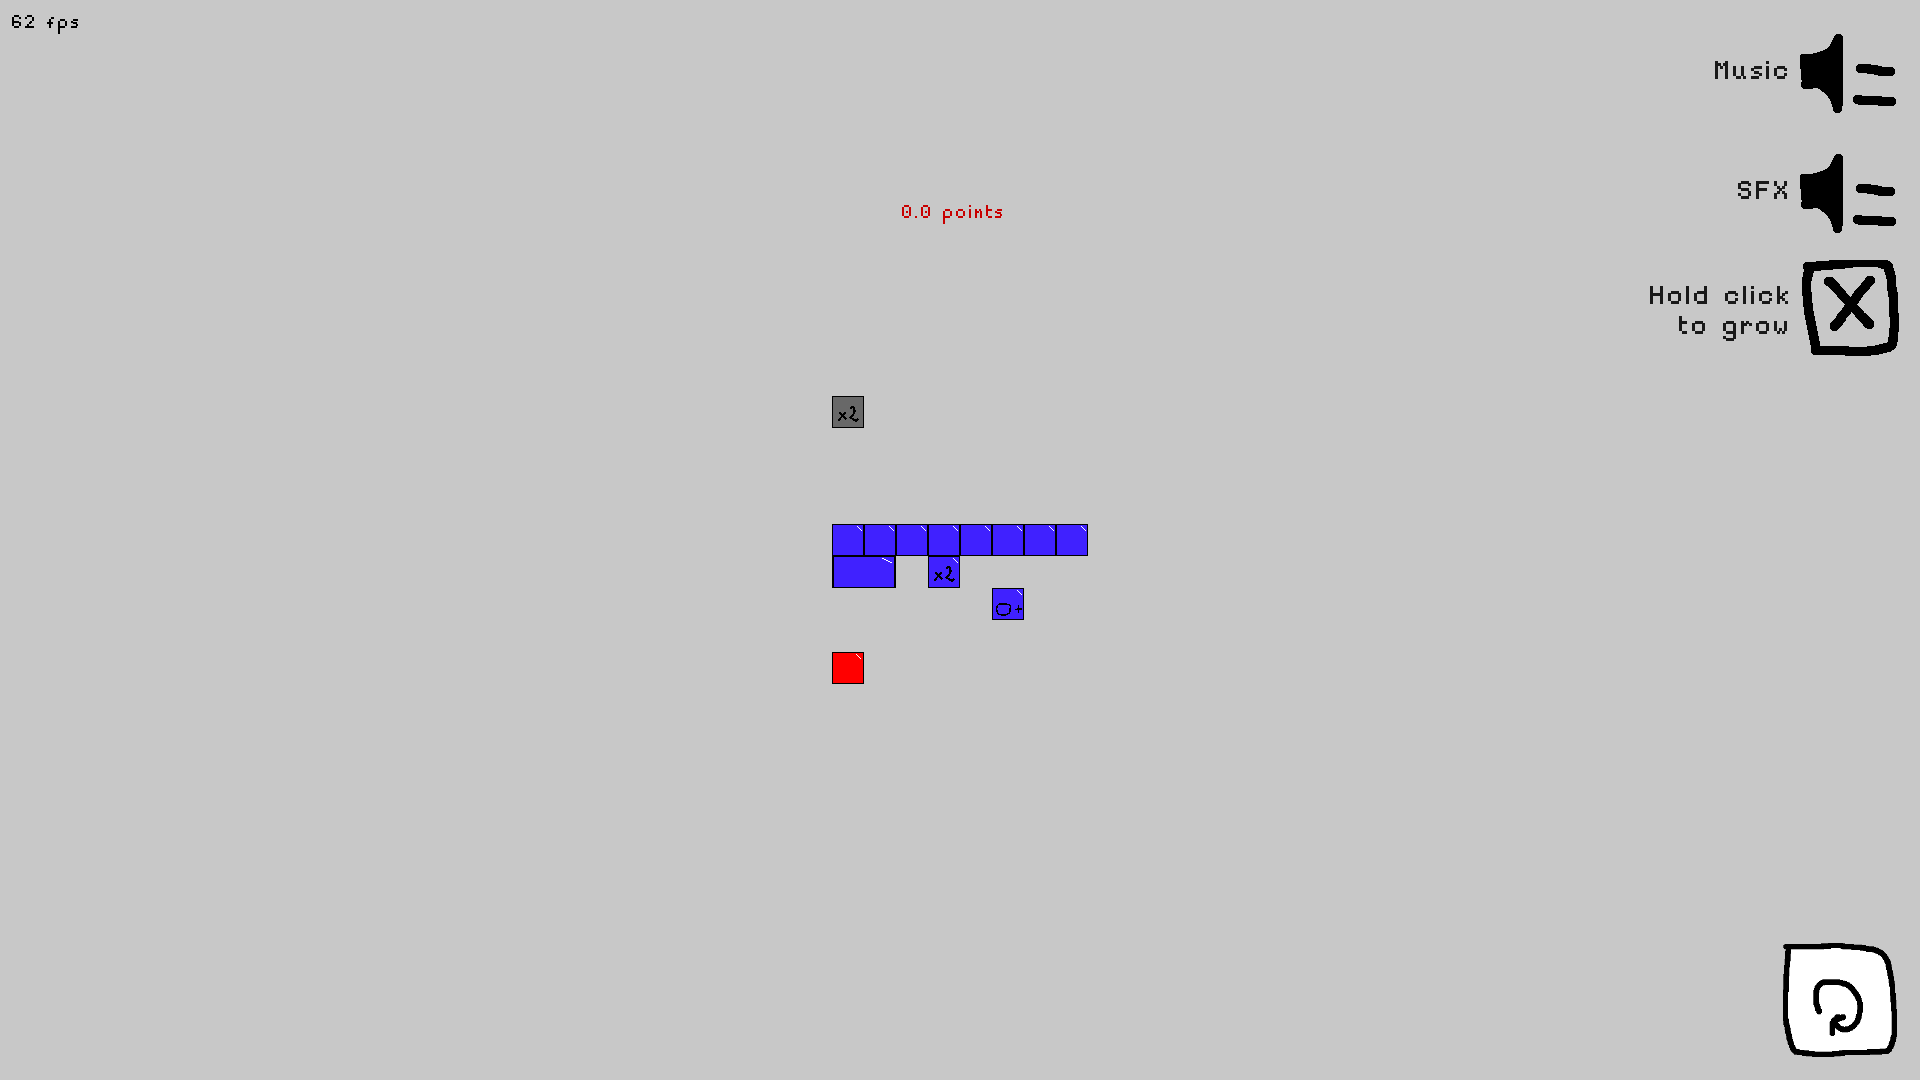
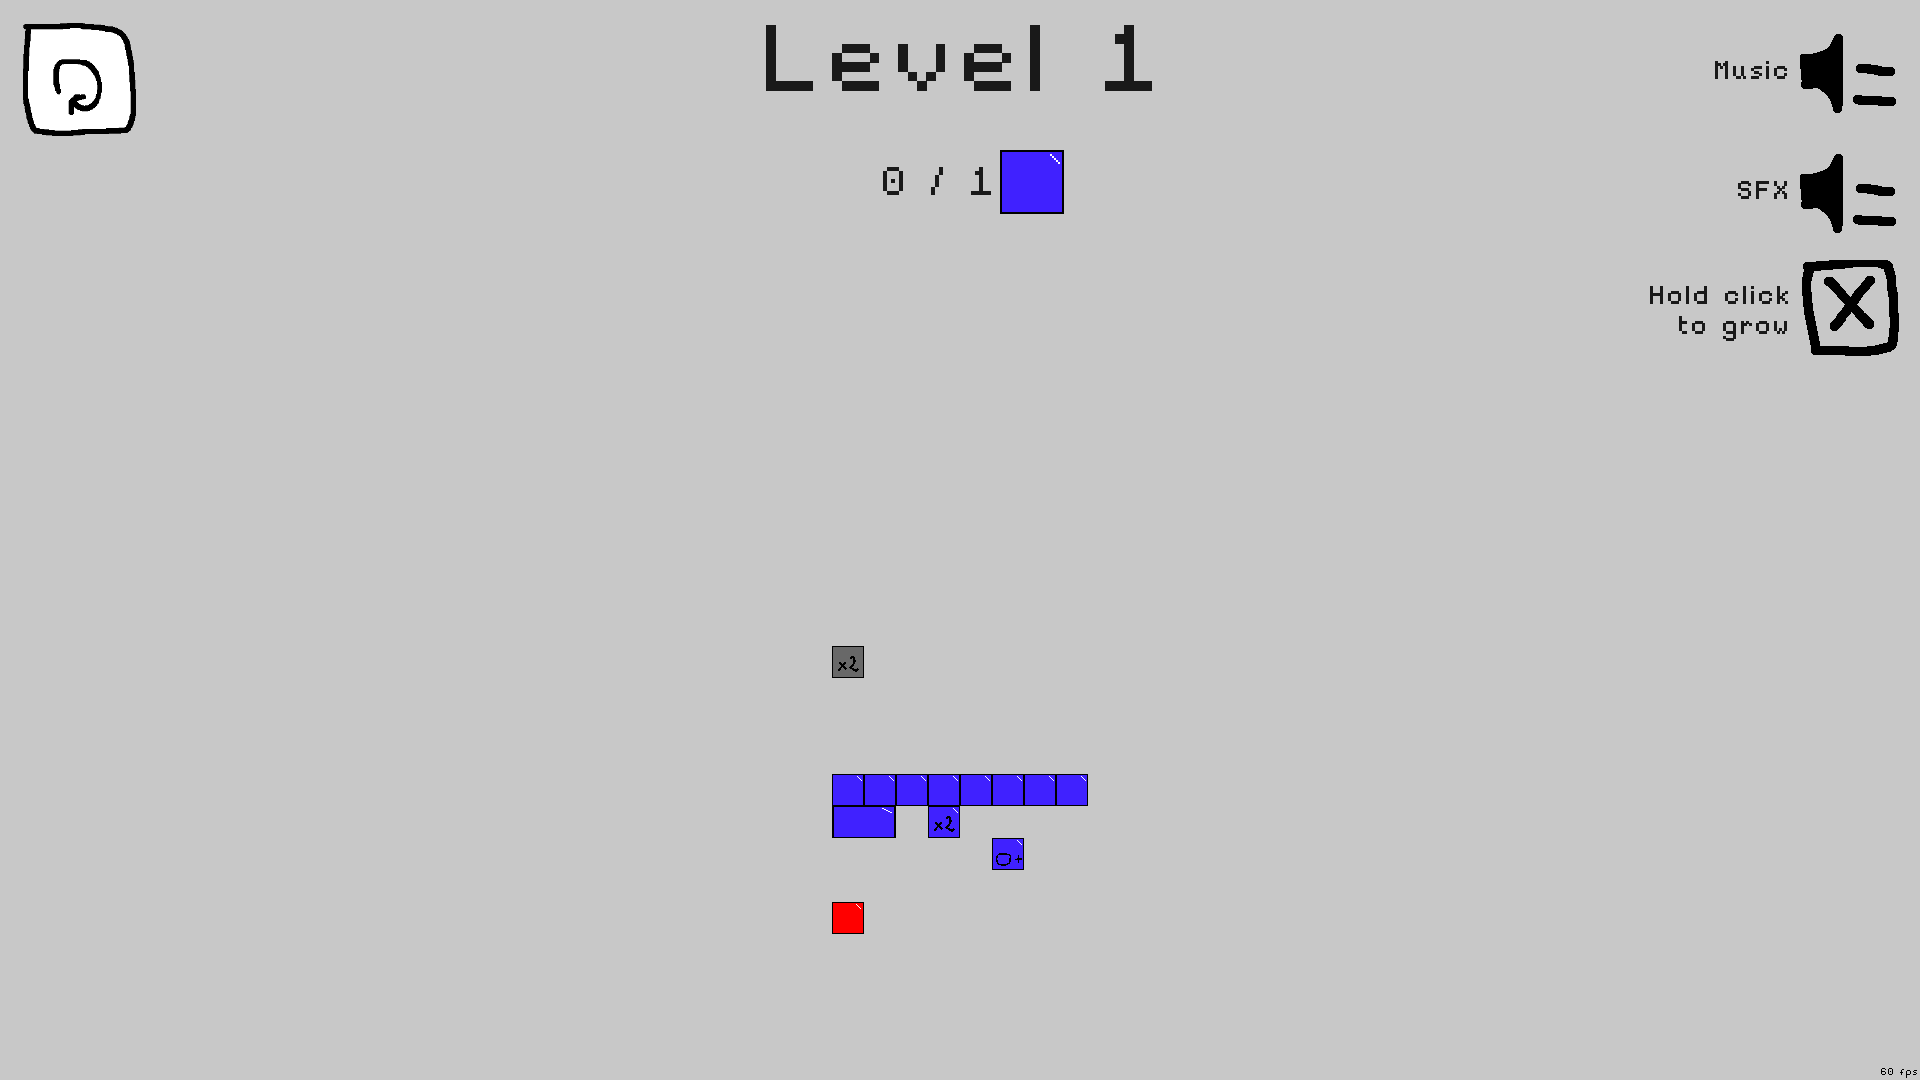
level ui part 1

diff --git a/level.py b/level.py
@@ -4,6 +4,8 @@ import random
 import pygame as pyg
 
 import constants as co
+import textures
+import utils
 from cell import Cell
 from circle import Circle
 from constants import CellType
@@ -43,14 +45,14 @@ class LevelManager:
 
     def __get_level(self):
         if self.number == 0:
-            return Level(1, 32, 3, [1, 3, 100], [Cell(x, 0, 1, 1) for x in range(8)]
+            return Level(0, 32, 3, [1, 3, 100], [Cell(x, 0, 1, 1) for x in range(8)]
                          + [Cell(0, 1, 2, 1)] + [Cell(0, 4, 1, 1, co.CellType.FORBIDDEN)]
                          + [Cell(5, 2, 1, 1, co.CellType.CIRCLE_P1)]
                          + [Cell(0, -4, 1, 1, co.CellType.BLOCKER)]
                          + [Cell(3, 1, 1, 1, co.CellType.MULT_2)])
         else:
             return Level(1, 32, 3, [4],
-                                       [Cell(1, 0), Cell(0, 1), Cell(2, 1), Cell(1, 2)])
+                         [Cell(1, 0), Cell(0, 1), Cell(2, 1), Cell(1, 2)])
 
     def load_level(self, number: int):
         self.number = number
@@ -286,13 +288,21 @@ class Level:
 
     def draw(self, surface: pyg.Surface, scale: Scale, dt: float):
         if self.animation == 0:
+            utils.draw_text_center(surface, f"Level {self.number + 1}", 150, scale.to_screen_rect(co.LEVEL_TITLE_RECT),
+                                   co.OPTION_TEXT_COLOR)
             self.draw_level(surface, scale, dt)
         elif self.animation == 1:
+            utils.draw_text_center(surface, f"Level {self.number + 1}", 150, scale.to_screen_rect(co.LEVEL_TITLE_RECT),
+                                   co.OPTION_TEXT_COLOR)
             self.draw_loading_animation(surface, scale, dt)
         elif self.animation == -1:
             self.draw_unloading_animation(surface, scale, dt)
 
     def draw_level(self, surface: pyg.Surface, scale: Scale, dt: float):
+        utils.draw_text_next_to_img(surface, pyg.transform.scale(textures.CELL_TEXTURES[0][0].get_current_sprite(), (64, 64)),
+                                    co.LEVEL_POINTS_COUNT_POS, 15, f'{self.points:.0f} / {self.required_points[0]:.0f}',
+                                    64, co.OPTION_TEXT_COLOR)
+
         for cell in self.cells:
             cell.draw(surface, self.x_offset, self.y_offset, scale, dt)
 
@@ -369,7 +379,8 @@ class Level:
         if len(self.required_points) == 2:
             return [2, 1 if self.points >= self.required_points[1] else 0]
         if len(self.required_points) == 3:
-            return [3, 2 if self.points >= self.required_points[1] else 0, 1 if self.points >= self.required_points[2] else 0]
+            return [3, 2 if self.points >= self.required_points[1] else 0,
+                    1 if self.points >= self.required_points[2] else 0]
 
     def got_gold_medal(self):
         return self.points >= self.required_points[-1]

diff --git a/game.py b/game.py
@@ -90,6 +90,7 @@ class Game:
             self.current_level.validate_temp_circle()
 
     def mouse_move(self, data: dict):
+        print(*data['pos'])
         if self.state == GameState.PLAYING_LEVEL:
             x, y = self.scale.to_game_pos(*data['pos'])
             self.current_level.on_mouse_move(int(x), int(y))
@@ -143,12 +144,11 @@ class Game:
                         (0, 0, 0))
 
         if self.state != GameState.BROWSER_WAIT_FOR_CLICK and self.state != GameState.END_OF_GAME:
-            utils.draw_text_center_right(game_surface, 'Music', co.OPTION_TEXT_SIZE,
-                                         self.scale.to_screen_rect(co.MUSIC_VOLUME_TEXT_RECT), co.OPTION_TEXT_COLOR)
-            game_surface.blit(textures.VOLUMES[self.options.music_volume], co.MUSIC_VOLUME_BTN_POS)
-            utils.draw_text_center_right(game_surface, 'SFX', co.OPTION_TEXT_SIZE,
-                                         self.scale.to_screen_rect(co.SFX_VOLUME_TEXT_RECT), co.OPTION_TEXT_COLOR)
-            game_surface.blit(textures.VOLUMES[self.options.sfx_volume], co.SFX_VOLUME_BTN_POS)
+            utils.draw_text_next_to_img(game_surface, textures.VOLUMES[self.options.music_volume],
+                                        co.MUSIC_VOLUME_BTN_POS, co.OPTION_TEXT_BTN_GAP, 'Music', co.OPTION_TEXT_SIZE, co.OPTION_TEXT_COLOR)
+            utils.draw_text_next_to_img(game_surface, textures.VOLUMES[self.options.sfx_volume],
+                                        co.SFX_VOLUME_BTN_POS, co.OPTION_TEXT_BTN_GAP, 'SFX', co.OPTION_TEXT_SIZE, co.OPTION_TEXT_COLOR)
+
             utils.draw_text_center_right(game_surface, 'Hold click', co.OPTION_TEXT_SIZE,
                                          self.scale.to_screen_rect(co.HOLD_TEXT_RECT_1), co.OPTION_TEXT_COLOR)
             utils.draw_text_center_right(game_surface, 'to grow', co.OPTION_TEXT_SIZE,
@@ -176,9 +176,6 @@ class Game:
 
     def draw_game(self, game_surface):
         self.current_level.draw(game_surface, self.scale, self.dt / 1000)
-
-        utils.draw_text(game_surface, f'{self.current_level.points} points', 30, self.scale.to_screen_pos(900, 200),
-                        (200, 0, 0))
 
         utils.blit_scaled(game_surface, textures.RESTART_LEVEL_BUTTON, co.RESTART_LEVEL_BTN_POS[0],
                           co.RESTART_LEVEL_BTN_POS[1],

diff --git a/utils.py b/utils.py
@@ -44,6 +44,14 @@ def draw_text_center_right(screen: pyg.Surface, text: str, size: int, rect: pyg.
     screen.blit(img, (rect.right - img.get_width(), rect.centery - img.get_height() / 2))
 
 
+def draw_text_next_to_img(screen: pyg.Surface, img: pyg.Surface, img_pos: tuple[float, float], gap: int, text: str, size: int,
+                          color: tuple[int, int, int], bold=False,
+                          italic=False, underline=False):
+    screen.blit(img, img_pos)
+    draw_text_center_right(screen, text, size, pyg.Rect(img_pos[0] - gap, img_pos[1], 0, img.get_height()), color,
+                           bold=bold, italic=italic, underline=underline)
+
+
 def blit_scaled(screen: pyg.Surface, img: pyg.Surface, x: int, y: int, scale: float):
     scaled_img = pyg.transform.scale_by(img, scale)
     dx = (scaled_img.get_width() - img.get_width()) / 2

diff --git a/constants.py b/constants.py
@@ -20,7 +20,7 @@ WIDTH = 1920
 HEIGHT = 1080
 GAME_RECT = pyg.Rect(0, 0, WIDTH, HEIGHT)
 
-GAME_Y_OFFSET = 0
+GAME_Y_OFFSET = 250
 
 # Main menu
 LOGO_SIZE = (1000, 400)
@@ -52,6 +52,10 @@ HOLD_TEXT_RECT_2 = pyg.Rect(HOLD_BTN_POS[0] - OPTION_TEXT_BTN_GAP, HOLD_BTN_POS[
 
 # Levels
 LEVEL_COUNT = 2
+
+LEVEL_TITLE_RECT = pyg.Rect(0, 0, WIDTH, 120)
+
+LEVEL_POINTS_COUNT_POS = (1000, 150)
 
 RESTART_LEVEL_BTN_SIZE = 120
 RESTART_LEVEL_BTN_POS = (20, 20)
